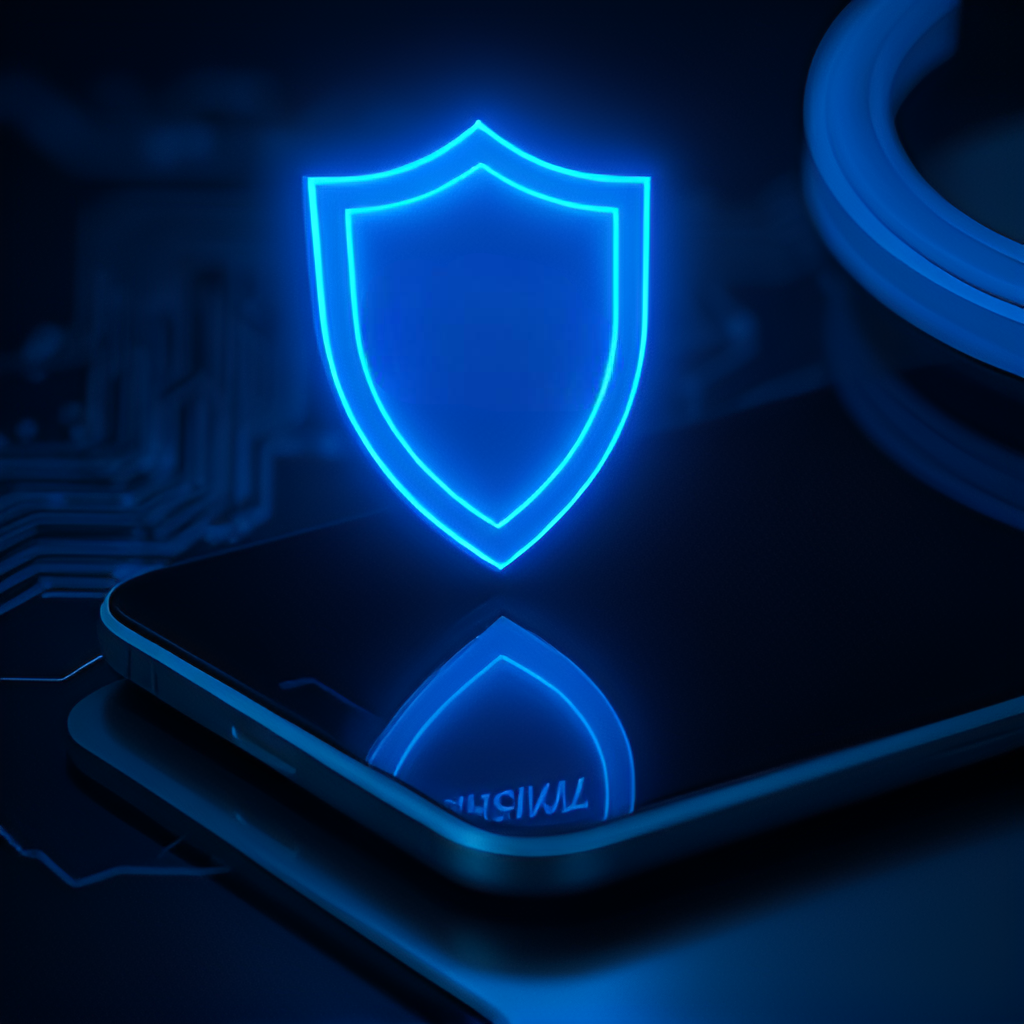
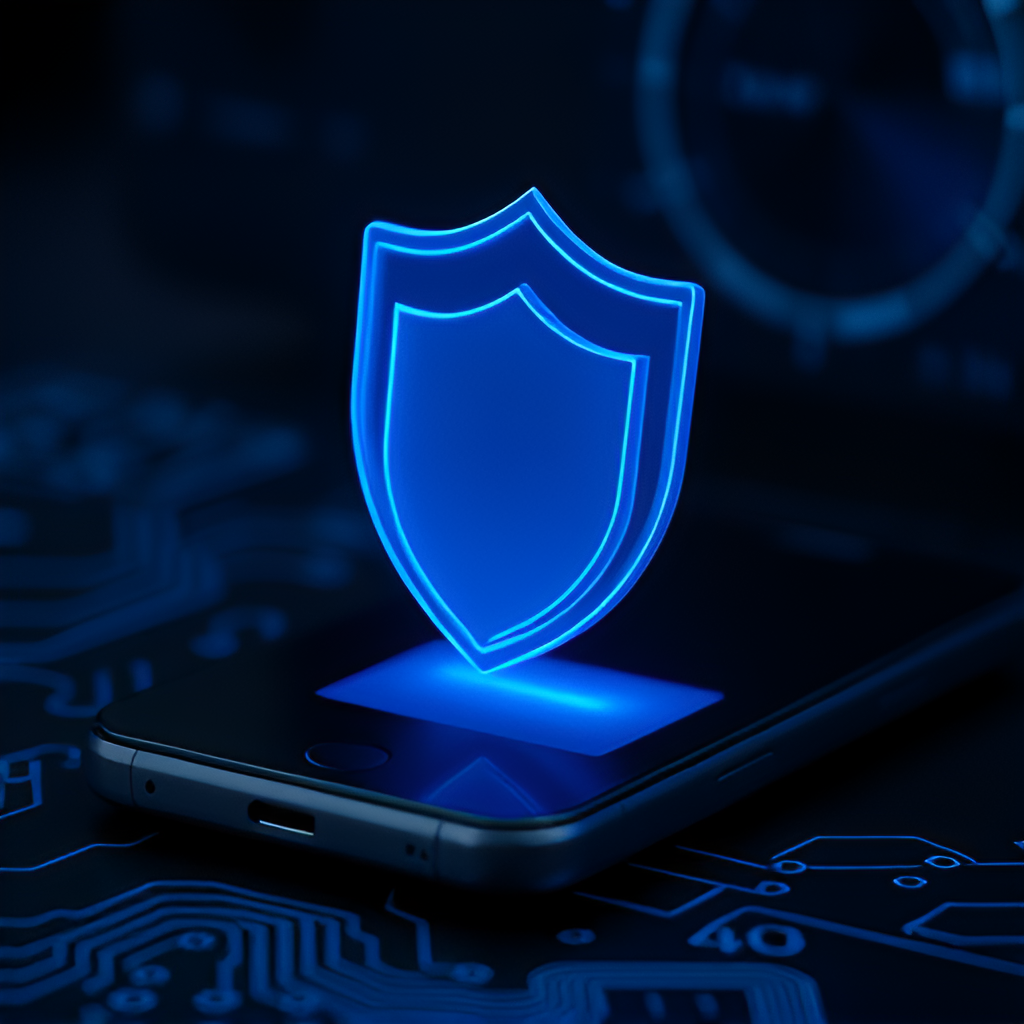
stylization: updated images to the main page

diff --git a/client/src/app/(main)/page.tsx b/client/src/app/(main)/page.tsx
@@ -29,10 +29,10 @@ const advantages = [
 ];
 
 const categories = [
-  { name: 'Смартфоны', icon: '/display.svg', href: '/catalog?typeId=1' },
-  { name: 'Ноутбуки', icon: '/display.svg', href: '/catalog?typeId=2' },
-  { name: 'Планшеты', icon: '/display.svg', href: '/catalog?typeId=3' },
-  { name: 'Аксессуары', icon: '/display.svg', href: '/catalog?typeId=4' },
+  { name: 'Смартфоны', icon: '/smartphone.svg', href: '/catalog?typeId=1' },
+  { name: 'Ноутбуки', icon: '/laptop.svg', href: '/catalog?typeId=2' },
+  { name: 'Планшеты', icon: '/tablet.svg', href: '/catalog?typeId=3' },
+  { name: 'Аксессуары', icon: '/headphones.svg', href: '/catalog?typeId=4' },
 ];
 
 const stats = [

diff --git a/client/src/app/(main)/page.module.scss b/client/src/app/(main)/page.module.scss
@@ -78,19 +78,21 @@
   background: var(--color-bg);
   border: 2px solid var(--color-border);
   border-radius: 1rem;
-  padding: 2rem;
-  min-height: 250px;
+  padding: 0;
+  min-height: auto;
   display: flex;
   align-items: center;
   justify-content: center;
   transition: all 0.3s ease;
   flex: 0.95;
+  overflow: hidden;
+  aspect-ratio: 16/9;
   
   img {
     width: 100%;
-    max-width: 280px;
-    height: auto;
-    object-fit: contain;
+    height: 100%;
+    max-width: 100%;
+    object-fit: cover;
   }
 }
 
